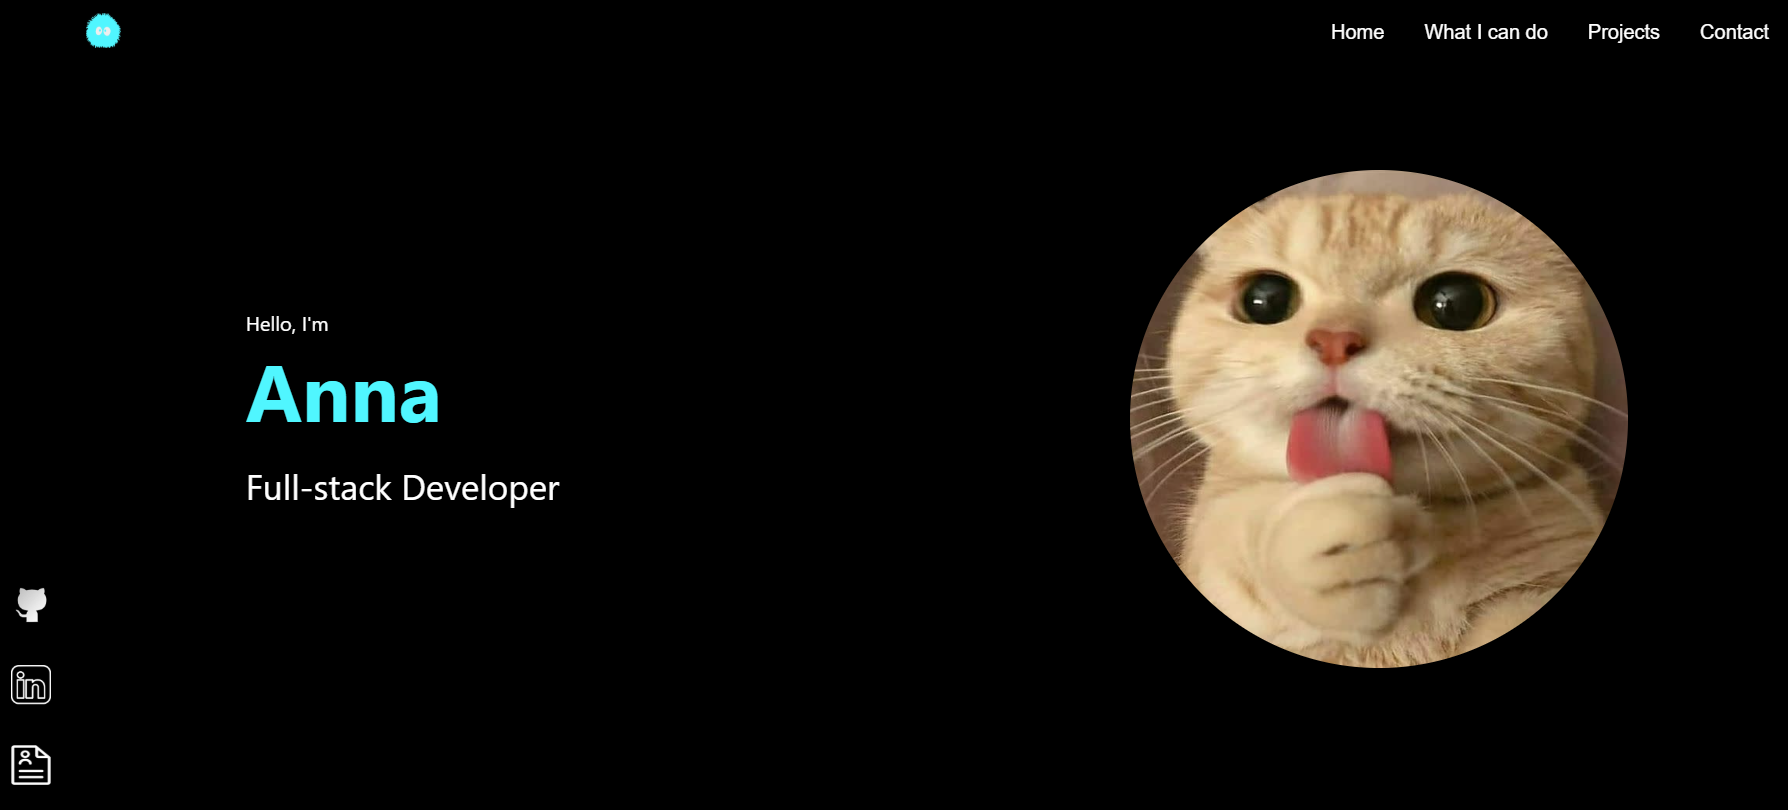
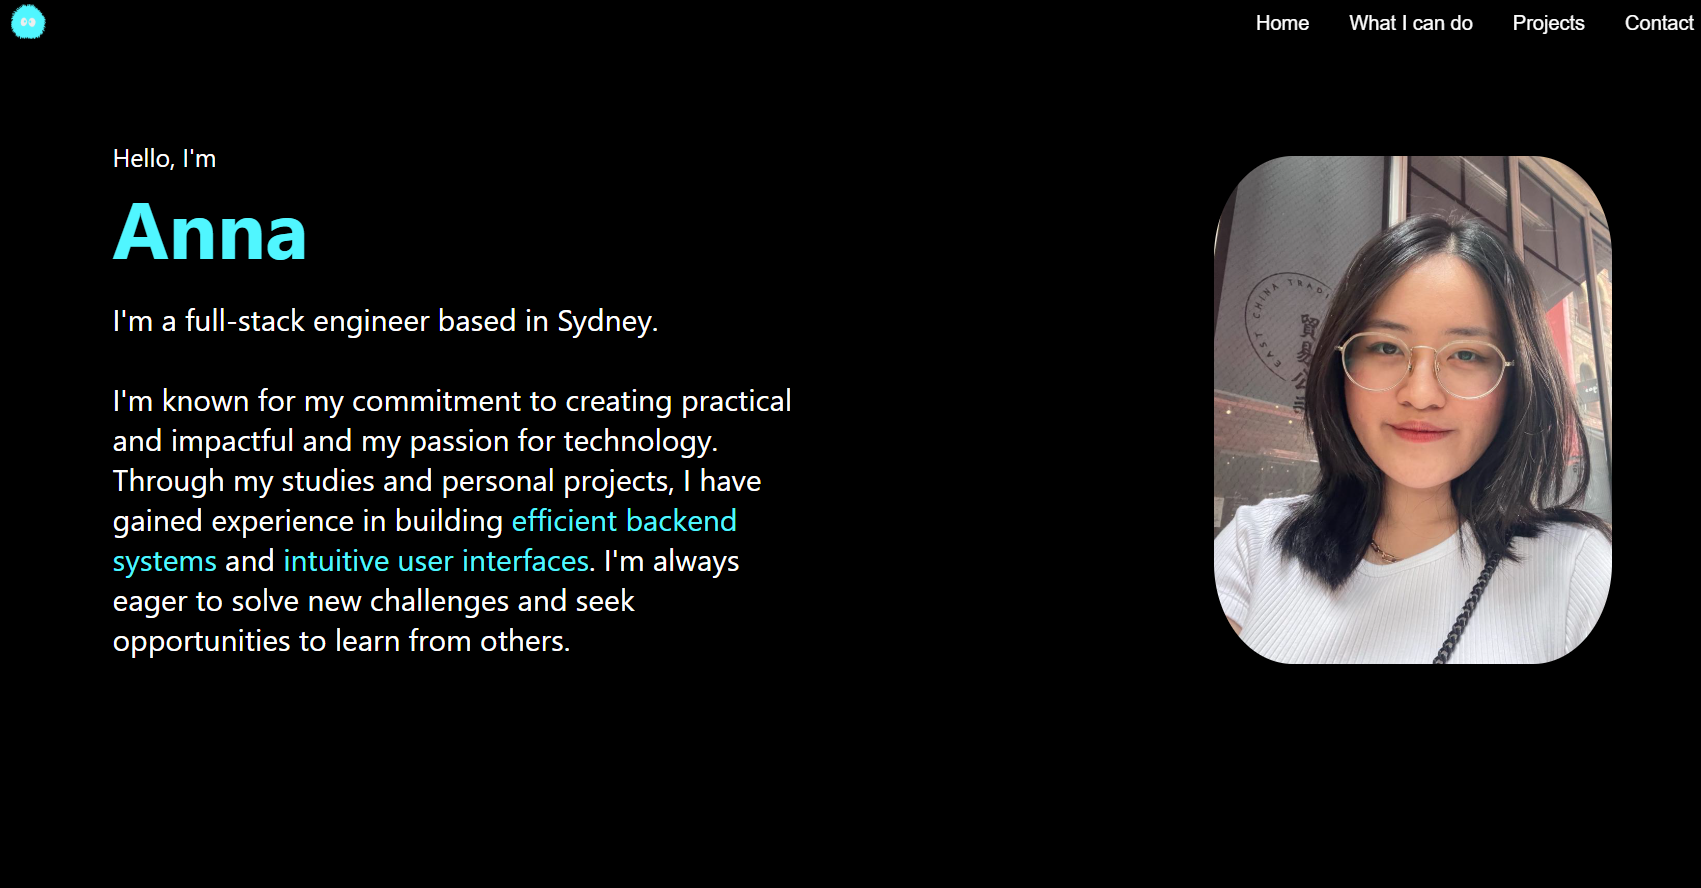
Added more to description, made the website more responsive, updated resume

diff --git a/index.html b/index.html
@@ -22,7 +22,8 @@
             <div class="intro-text">
                 <p class="greeting">Hello, I'm</p>
                 <h1 class="name">Anna</h1>
-                <p class="description">I'm a full-stack developer</p>
+                <p class="description">I'm a full-stack engineer based in Sydney.</p>
+                <p class="description">I'm known for my commitment to creating practical and impactful and my passion for technology. Through my studies and personal projects, I have gained experience in building <span class="desc-highlight">efficient backend systems</span> and <span class="desc-highlight">intuitive user interfaces</span>. I'm always eager to solve new challenges and seek opportunities to learn from others.</p>
             </div>
             <img src="images/avatar.jpg">
         </div>
@@ -35,24 +36,35 @@
                 <ul>
                     <li>
                         <h3>Languages</h3>
-                        <p class="specific-skills">Java, Python, JavaScript, HTML, CSS, SQL, Cypher, LaTeX, R</p>
+                        <p class="specific-skills">Java, Python, JavaScript, SQL, Cypher, LaTeX, R</p>
                     </li>
                     <li>
-                        <!-- <h3 class="back">Framework</h3> -->
-                        <h3>Frameworks & Libraries</h3>
-                        <p class="specific-skills">Spring Boot, Flask, React.js, JavaFX, Langchain, Pytorch, SQLAlchemy</p>
+                        <h3>Backend</h3>
+                        <p class="specific-skills">Spring Boot, Flask, Node.js, Express.js, SQLAlchemy</p>
                     </li>
                     <li>
-                        <h3>Technologies</h3>
-                        <p class="specific-skills">Git, Bitbucket, Gradle, Jira, Jenkins, Docker, JaCoCo, Junit, Postman, VS Code, IntelliJ, pgAdmin</p>
+                        <h3>Frontend</h3>
+                        <p class="specific-skills">React.js, JavaFX, HTML, CSS</p>
+                    </li>
+                    <li>
+                        <h3>Graphics & Machine Learning</h3>
+                        <p class="specific-skills">Langchain, Pytorch</p>
+                    </li>
+                    <li>
+                        <h3>Development & CI/CD Tools</h3>
+                        <p class="specific-skills">Git, Bitbucket, Gradle, Jira, Jenkins, Docker, Confluence, Trello, VS Code, IntelliJ</p>
                     </li>
                     <li>
                         <h3>DBMS</h3>
-                        <p class="specific-skills">PostgreSQL, Neo4j</p>
+                        <p class="specific-skills">PostgreSQL (pgAdmin), Neo4j, Supabase</p>
+                    </li>
+                    <li>
+                        <h3>Testing</h3>
+                        <p class="specific-skills">Unit Testing, Integration Testing, Fuzzing, JaCoCo, Junit, Postman, TDD</p>
                     </li>
                     <li>
                         <h3>Concepts & Practices</h3>
-                        <p class="specific-skills">Agile Methodology (SCRUM, CI, CD), Testing, OOP, MVC, GraphRAG, Design patterns, AI integration</p>
+                        <p class="specific-skills">Agile Methodology (SCRUM, CI, CD), OOP, MVC, GraphRAG, Design patterns, AI integration</p>
                     </li>
                 </ul>
             </div>
@@ -161,7 +173,7 @@
                     </a>
                 </div>
                 <div>
-                    <a href="https://acrobat.adobe.com/id/urn:aaid:sc:AP:b5aae12e-3440-47ed-92ba-9c0592fba5b2" target="_blank">
+                    <a href="https://acrobat.adobe.com/id/urn%3Aaaid%3Asc%3AAP%3A132f5b00-1194-4a3f-b855-724bbf0c5f47/?filetype=application%2Fpdf" target="_blank">
                         <img src="images/contacts/resume-icon.png" id="resume-before" style="filter: invert(100%);">
                         <img src="images/contacts/resume-cyan-icon.png" id="resume-after">
                     </a>
@@ -174,7 +186,9 @@
     <footer>
         
     </footer>
-
+    <script>
+        console.log(window.innerWidth); // Logs the width of the browser window
+    </script>
     <script type="module" src="index.js"></script>
 </body>
 </html>

diff --git a/index.css b/index.css
@@ -136,20 +136,25 @@ nav ul li a:hover::after {
 
 .greeting {
     margin-top: 20px;
-    font-size: 20px;
+    font-size: 25px;
 }
 
 .description {
     margin-bottom: 40px;
-    font-size: 35px;
+    font-size: 30px;
+    width: 700px;
+}
+
+.desc-highlight {
+    color: #50f6ff;
 }
 
 #intro img {
     width: 400px;
-    height: 500px;
-    margin-left: 570px;
+    height: 510px;
+    margin-left: 400px;
     border: 1px solid transparent;
-    border-radius: 50%;
+    border-radius: 20%;
 }
 
 #contact {
@@ -250,7 +255,7 @@ nav ul li a:hover::after {
 }
 
 #skills-list {
-    margin-top: 50px;
+    margin-top: 30px;
     color: #50f6ff;
     font-size: 25px;
 }
@@ -259,7 +264,7 @@ nav ul li a:hover::after {
     list-style: none;
     display: flex;
     flex-direction: column;
-    margin-bottom: 35px;
+    margin-bottom: 15px;
 }
 
 .specific-skills {
@@ -387,13 +392,13 @@ nav ul li a:hover::after {
         font-size: 40px;
     }
 
-
     .greeting {
         font-size: 20px;
     }
 
     .description {
-        font-size: 25px;
+        font-size: 20px;
+        width: 300px;
     }
 
     .intro-text {
@@ -413,22 +418,26 @@ nav ul li a:hover::after {
 
     #skills {
         margin-left: 80px;
-        font-size: auto;
+        font-size: 20px;
         margin-top: auto;
         margin-right: 10px;
     }
 
     #skills p {
-        font-size: auto;
+        font-size: 19px;
     }
 
     #skills-list {
-        margin-top: 30px;
+        margin-top: 20px;
         font-size: auto;
     }
 
     #skills ul li {
         margin-bottom: auto;
+    }
+
+    #skills ul li h3 {
+        font-size: 20px;
     }
 
     .project-info {
@@ -457,7 +466,20 @@ nav ul li a:hover::after {
     }
 
     .intro-text {
-        margin-left: 50px;
+        margin-left: 20px;
+    }
+
+    .name {
+        font-size: 40px;
+    }
+
+    .greeting {
+        font-size: 20px;
+    }
+
+    .description {
+        font-size: 25px;
+        width: 500px;
     }
 
     #skills {
@@ -482,7 +504,7 @@ nav ul li a:hover::after {
     }
 }
 
-@media only screen and (min-width: 1000px) and (max-width: 1500px) {
+@media only screen and (min-width: 1000px) and (max-width: 1100px) {
     #intro img {
         width: 340px;
         height: 400px;
@@ -494,10 +516,63 @@ nav ul li a:hover::after {
         margin-left: 50px;
     }
 
+    .name {
+        font-size: 60px;
+    }
+
+    .description {
+        font-size: 25px;
+        width: 500px;
+    }
+
     #skills {
         margin-left: 80px;
         font-size: auto;
         margin-top: auto;
         margin-right: 30px;
+    }
+}
+
+@media only screen and (min-width: 1100px) and (max-width: 1500px) {
+    #intro img {
+        width: 340px;
+        height: 400px;
+        margin-left: auto;
+        margin-right: 60px;
+    }
+
+    .intro-text {
+        margin-left: 50px;
+    }
+
+    .name {
+        font-size: 70px;
+    }
+
+    .description {
+        font-size: 30px;
+        width: 600px;
+    }
+}
+
+@media only screen and (min-width: 1500px) and (max-width: 1700px) {
+    #intro img {
+        width: 390px;
+        height: 450px;
+        margin-left: auto;
+        margin-right: 60px;
+    }
+
+    .intro-text {
+        margin-left: 100px;
+    }
+
+    .name {
+        font-size: 80px;
+    }
+
+    .description {
+        font-size: 30px;
+        width: 700px;
     }
 }

diff --git a/index.js b/index.js
@@ -1,18 +1,19 @@
 // fading effect
-const observer = new IntersectionObserver((entries) => {
-    entries.forEach(e => {
-        if (e.isIntersecting) {
-            e.target.classList.add("fade-visible");
-        } else {
-            e.target.classList.remove("fade-visible");
-        }
-    });
-}, {
-    threshold: 0.3
-});
+// const observer = new IntersectionObserver((entries) => {
+//     entries.forEach(e => {
+//         if (e.isIntersecting) {
+//             e.target.classList.add("fade-visible");
+//         } else {
+//             e.target.classList.remove("fade-visible");
+//         }
+//     });
+// }, {
+//     threshold: 0.3
+// });
 
-// apply for all sections
-const sections = document.querySelectorAll(".fade");
-sections.forEach(s => {
-    observer.observe(s);
-});
+// // apply for all sections
+// const sections = document.querySelectorAll(".fade");
+// sections.forEach(s => {
+//     observer.observe(s);
+// });
+
